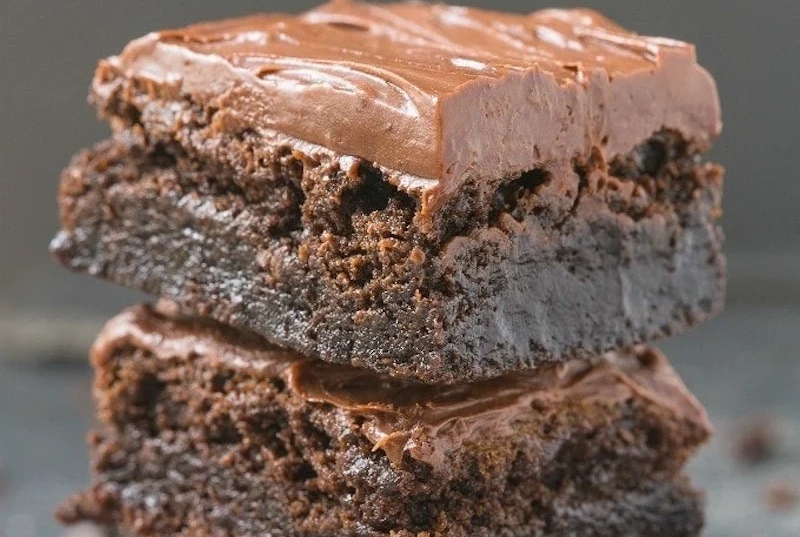
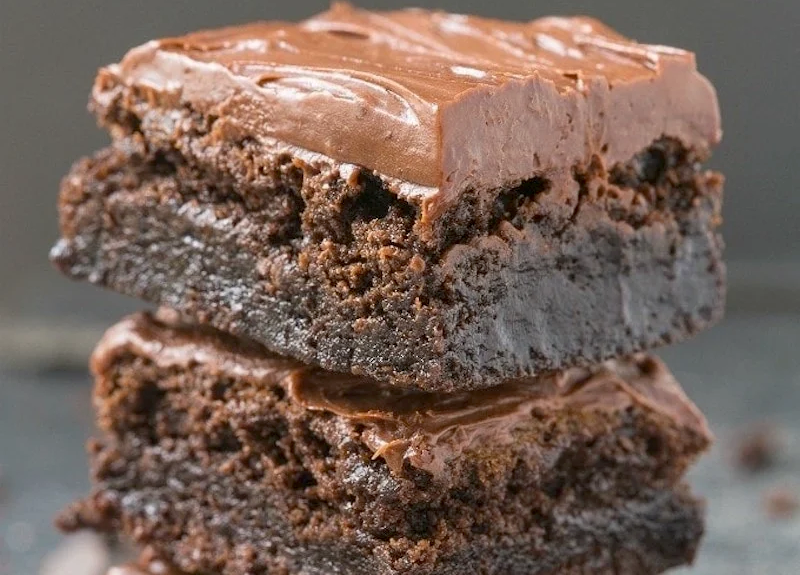
Update

diff --git a/index.html b/index.html
@@ -316,7 +316,7 @@
         <div class="col-md-4">
           <figure class="my-3 tstbite-card">
             <a href="/brownies" class="tstbite-animation rounded-6">
-              <img src="assets/images/food/gfdfbrownies.jpg" class="w-100">
+              <img src="assets/images/food/brownies.png" class="w-100">
             </a>
             <figcaption class="mt-2">
               <a href="/brownies" class="f-size-20 text-black d-block mt-1 font-weight-semibold">Brownies</a>
